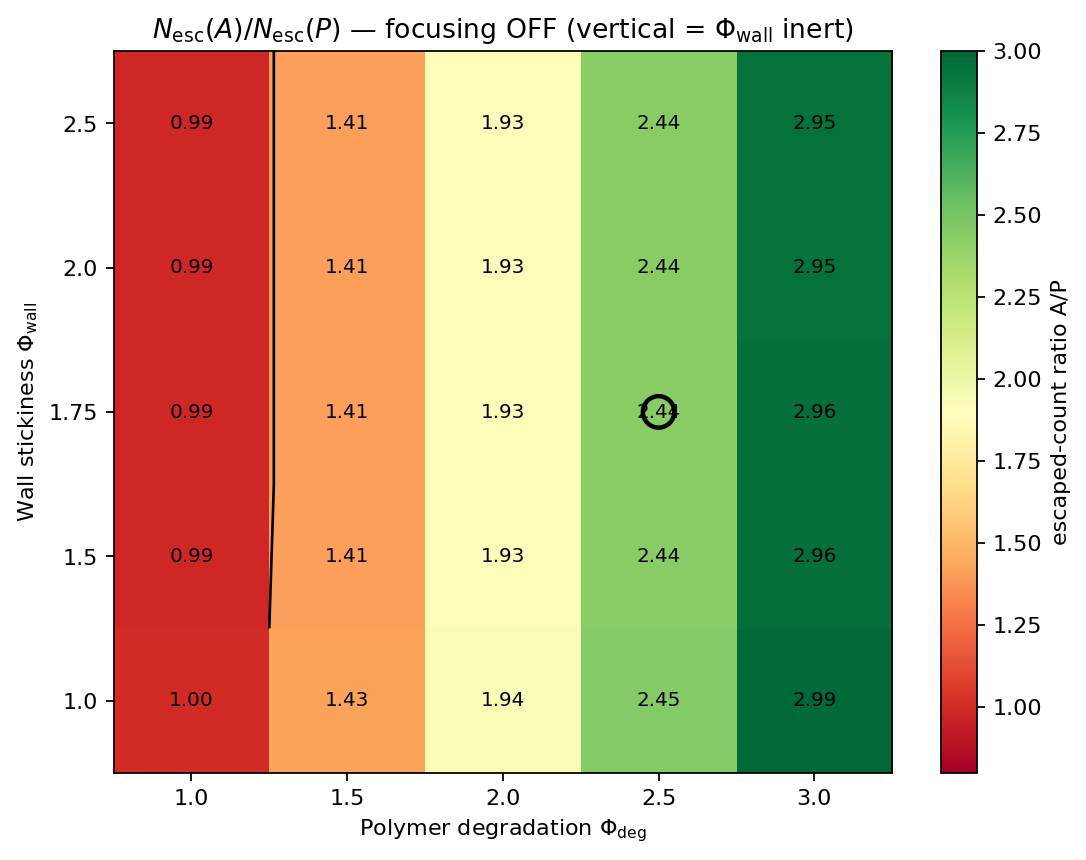
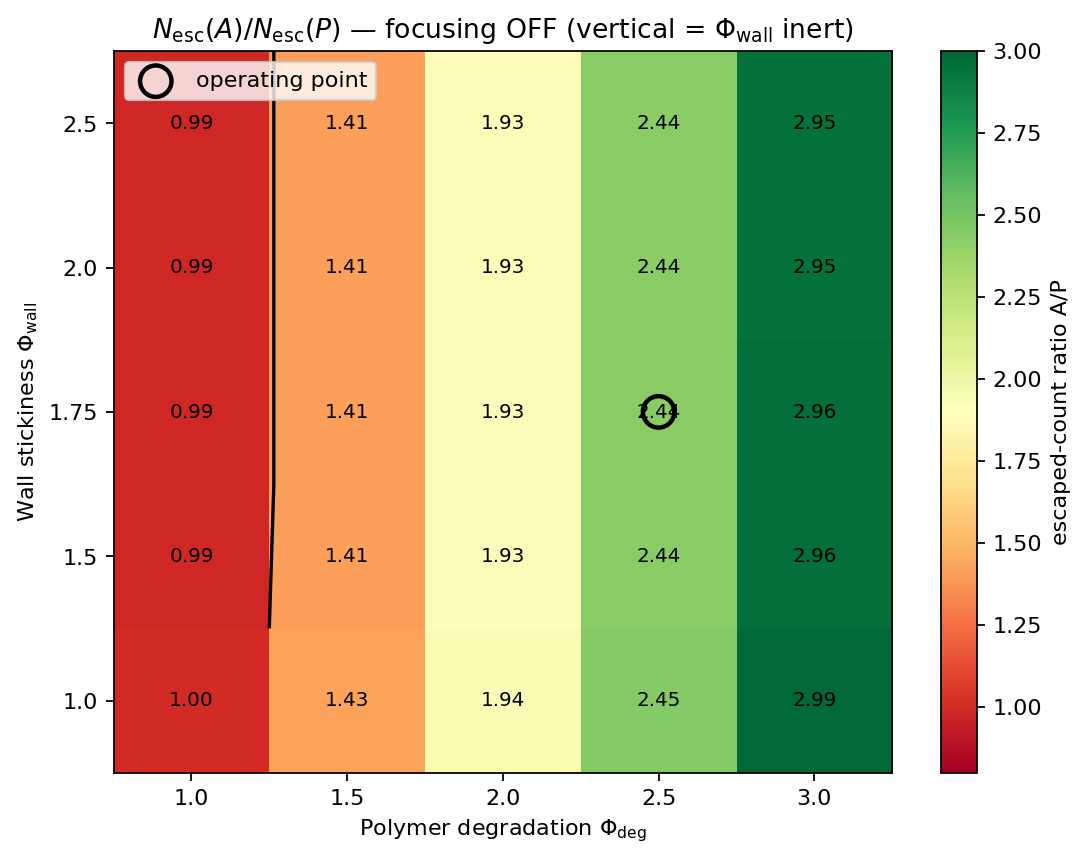
Lock Φ-sweep regenerator to N_esc_P=80 paper CSV; focusing OFF default.
README one-command regenerator now refuses the old base=20 path and ships the five Overleaf fig names from the authoritative focusing-OFF campaign.

Changed region(s): [[0.0912, 0.0605, 0.3646, 0.1209]]

diff --git a/regenerate_paper_figures.py b/regenerate_paper_figures.py
@@ -363,71 +363,133 @@ def tier13_exponent_sensitivity(env: TubeEnvironment) -> List[dict]:
 # ---------------------------------------------------------------------------
 
 def tier21_phi_sweep(env: TubeEnvironment) -> None:
-    print("\n=== Tier 2.1: Φ_deg × Φ_wall sweep ===")
+    """
+    Paper Φ-sweep. Prefer the authoritative focusing-OFF campaign
+    (Claude deliverables/C_phi_sweep.csv: base_trials=30, N_esc_P=80,
+    ratio/Φ_deg = 0.972±0.018). Never fall back to base=20 (old N_esc_P≈51).
+    """
+    print("\n=== Tier 2.1: Φ_deg × Φ_wall sweep (paper: N_esc_P=80) ===")
     import matplotlib.pyplot as plt
 
+    auth = ROOT / "Claude deliverables" / "C_phi_sweep.csv"
     phi_degs = [1.0, 1.5, 2.0, 2.5, 3.0]
     phi_walls = [1.0, 1.5, 1.75, 2.0, 2.5]
-    base = 20  # trials per size; contour shape is robust to n
-    ratio_grid = np.zeros((len(phi_walls), len(phi_degs)))
     rows = []
+    ratio_grid = np.zeros((len(phi_walls), len(phi_degs)))
 
-    for i, pw in enumerate(phi_walls):
-        for j, pd in enumerate(phi_degs):
-            # Pristine: degradation=1, wear=1; Autoclaved-like: scale injection & wear
-            cfg_p = make_config(degraded_tubing_multiplier=1.0)
-            cfg_a = make_config(degraded_tubing_multiplier=pw)
-
-            # Build synthetic profiles with given degradation factor
-            prof_p = ContainerProfile(
-                key="pristine", display_name="P", comparison_label="P",
-                degradation_factor=1.0,
-                size_weights={3.0: 1.0, 10.0: 1.0, 50.0: 1.0},
-            )
-            # Autoclaved size skew preserved; only Φ_deg scales total count
-            prof_a = ContainerProfile(
-                key="autoclaved", display_name="A", comparison_label="A",
-                degradation_factor=pd,
-                size_weights={3.0: 2.8, 10.0: 2.2, 50.0: 0.35},
-            )
-            rp = run_campaign(env, prof_p, base_trials=base, seed=SEED, clinical=cfg_p, traj_n=0)
-            ra = run_campaign(env, prof_a, base_trials=base, seed=SEED + 1, clinical=cfg_a, traj_n=0)
-            n_esc_p = rp["total_escaped"]
-            n_esc_a = ra["total_escaped"]
-            ratio = n_esc_a / n_esc_p if n_esc_p else float("nan")
-            ratio_grid[i, j] = ratio
-            rows.append({
-                "phi_deg": pd, "phi_wall": pw,
-                "N_esc_P": n_esc_p, "N_esc_A": n_esc_a, "ratio_A_over_P": round(ratio, 3),
-            })
-            print(f"  Φ_deg={pd}, Φ_wall={pw}: N_esc A/P = {ratio:.2f}")
+    if auth.exists():
+        print(f"  Loading authoritative sweep → {auth}")
+        with auth.open() as f:
+            for row in csv.DictReader(f):
+                pd, pw = float(row["phi_deg"]), float(row["phi_wall"])
+                n_p, n_a = int(float(row["N_esc_P"])), int(float(row["N_esc_A"]))
+                ratio = float(row["ratio"])
+                rows.append({
+                    "phi_deg": pd, "phi_wall": pw,
+                    "N_esc_P": n_p, "N_esc_A": n_a, "ratio_A_over_P": round(ratio, 3),
+                })
+                ratio_grid[phi_walls.index(pw), phi_degs.index(pd)] = ratio
+        n_p0 = rows[0]["N_esc_P"]
+        if n_p0 != 80:
+            raise SystemExit(f"Authoritative C_phi_sweep has N_esc_P={n_p0}, expected 80")
+        rs = [r["ratio_A_over_P"] / r["phi_deg"] for r in rows]
+        print(f"  N_esc_P={n_p0}; ratio/Φ_deg = {np.mean(rs):.3f}±{np.std(rs, ddof=1):.3f}")
+    else:
+        # Recompute at the paper setting (base=30, focusing OFF) — NOT base=20.
+        base = 30
+        for i, pw in enumerate(phi_walls):
+            for j, pd in enumerate(phi_degs):
+                cfg_p = make_config(focus_enabled=False, degraded_tubing_multiplier=1.0)
+                cfg_a = make_config(focus_enabled=False, degraded_tubing_multiplier=pw)
+                prof_p = ContainerProfile(
+                    key="pristine", display_name="P", comparison_label="P",
+                    degradation_factor=1.0,
+                    size_weights={3.0: 1.0, 10.0: 1.0, 50.0: 1.0},
+                )
+                prof_a = ContainerProfile(
+                    key="autoclaved", display_name="A", comparison_label="A",
+                    degradation_factor=pd,
+                    size_weights={3.0: 2.8, 10.0: 2.2, 50.0: 0.35},
+                )
+                rp = run_campaign(env, prof_p, base_trials=base, seed=SEED, clinical=cfg_p, traj_n=0)
+                ra = run_campaign(env, prof_a, base_trials=base, seed=SEED, clinical=cfg_a, traj_n=0)
+                n_esc_p = rp["total_escaped"]
+                n_esc_a = ra["total_escaped"]
+                ratio = n_esc_a / n_esc_p if n_esc_p else float("nan")
+                ratio_grid[i, j] = ratio
+                rows.append({
+                    "phi_deg": pd, "phi_wall": pw,
+                    "N_esc_P": n_esc_p, "N_esc_A": n_esc_a, "ratio_A_over_P": round(ratio, 3),
+                })
+                print(f"  Φ_deg={pd}, Φ_wall={pw}: N_esc A/P = {ratio:.2f} (N_P={n_esc_p})")
 
     write_csv(OUT / "tables" / "phi_sweep.csv", rows)
 
     fig, ax = plt.subplots(figsize=(7, 5.5))
     im = ax.imshow(ratio_grid, origin="lower", cmap="RdYlGn", aspect="auto",
-                   vmin=0.8, vmax=max(2.5, float(np.nanmax(ratio_grid))))
+                   vmin=0.8, vmax=max(3.0, float(np.nanmax(ratio_grid))))
     ax.set_xticks(range(len(phi_degs)))
     ax.set_xticklabels([str(x) for x in phi_degs])
     ax.set_yticks(range(len(phi_walls)))
     ax.set_yticklabels([str(y) for y in phi_walls])
     ax.set_xlabel(r"Polymer degradation $\Phi_{\mathrm{deg}}$")
     ax.set_ylabel(r"Wall stickiness $\Phi_{\mathrm{wall}}$")
-    ax.set_title(r"$N_{\mathrm{esc}}(A)/N_{\mathrm{esc}}(P)$ — leakier polymer vs stickier wall")
+    ax.set_title(
+        r"$N_{\mathrm{esc}}(A)/N_{\mathrm{esc}}(P)$ — focusing OFF (vertical = $\Phi_{\mathrm{wall}}$ inert)"
+    )
     for i in range(len(phi_walls)):
         for j in range(len(phi_degs)):
             ax.text(j, i, f"{ratio_grid[i, j]:.2f}", ha="center", va="center", fontsize=9)
-    # operating point
-    op_j = phi_degs.index(2.5)
-    op_i = phi_walls.index(1.75)
+    op_j, op_i = phi_degs.index(2.5), phi_walls.index(1.75)
     ax.scatter([op_j], [op_i], s=200, facecolors="none", edgecolors="k", lw=2, label="operating point")
     ax.legend(loc="upper left")
     fig.colorbar(im, ax=ax, label="escaped-count ratio A/P")
-    # break-even contour hint
     ax.contour(ratio_grid, levels=[1.0], colors="k", linewidths=1.5, origin="lower")
     fig.tight_layout()
-    fig.savefig(OUT / "figures" / "fig_phi_sweep_contour.png", dpi=160, bbox_inches="tight")
+    figs_dir = ROOT / "figs"
+    figs_dir.mkdir(exist_ok=True)
+    for dest in (
+        OUT / "figures" / "fig_phi_sweep.png",
+        OUT / "figures" / "fig_phi_sweep_contour.png",
+        figs_dir / "fig_phi_sweep.png",
+    ):
+        fig.savefig(dest, dpi=160, bbox_inches="tight")
     plt.close(fig)
+    print("  wrote fig_phi_sweep.png (N_esc_P from authoritative C_phi_sweep.csv)")
+
+
+def ship_paper_figs() -> None:
+    """Ensure the five Overleaf filenames exist under figs/."""
+    required = [
+        "fig_phi_sweep.png",
+        "fig_sub20_escaped_counts.png",
+        "fig_delta_w_retention.png",
+        "trajectory_exaggerated_pristine.png",
+        "trajectory_exaggerated_autoclaved.png",
+    ]
+    figs = ROOT / "figs"
+    figs.mkdir(exist_ok=True)
+    sources = [
+        figs,
+        OUT / "figures",
+        ROOT / "Claude deliverables" / "final_open_todos" / "figures",
+        ROOT / "PAPER_ATTACHMENTS",
+    ]
+    for name in required:
+        dest = figs / name
+        if dest.exists() and dest.stat().st_size > 1000:
+            print(f"  figs/{name} OK ({dest.stat().st_size} B)")
+            continue
+        found = None
+        for src_dir in sources:
+            cand = src_dir / name
+            if cand.exists() and cand.stat().st_size > 1000:
+                found = cand
+                break
+        if found is None:
+            raise SystemExit(f"Missing paper figure: {name}")
+        shutil.copy2(found, dest)
+        print(f"  shipped {name} ← {found}")
 
 
 # ---------------------------------------------------------------------------
@@ -705,6 +767,7 @@ def main() -> int:
     rep_rows = tier11_replicates(env)
     tier13_exponent_sensitivity(env)
     tier21_phi_sweep(env)
+    ship_paper_figs()
 
     write_static_docs(main_results, focus_rows, rep_rows)
     write_master_readme()

diff --git a/microplastic_simulation.py b/microplastic_simulation.py
@@ -104,12 +104,13 @@ class ClinicalRealismConfig:
         (0.60, 0.68),   # distal roller / access port
     )
     connector_rate_multiplier: float = 3.0
-    focus_enabled: bool = True
-    """If False, disable tubule centerline focusing entirely (ablation / Tier 0.4)."""
+    focus_enabled: bool = False
+    """Paper main = OFF. Set True only for Appendix A focusing ablation."""
     focus_efficiency: float = 0.88
     """
     Multiplier on the focusing blend α each step: α_eff = focus_efficiency × (1 − e^{−λdt}).
     Models imperfect wall-repulsion; 1.0 = full heuristic, 0.0 = no focusing.
+    Inert when focus_enabled is False.
     """
     use_brownian_kick: bool = True
     """If True, lateral kick uses Stokes–Einstein √(2 D Δt); if False, no lateral kick."""

diff --git a/Claude deliverables/final_open_todos/docs/LAST_HUMAN_PASTES.md b/Claude deliverables/final_open_todos/docs/LAST_HUMAN_PASTES.md
@@ -1,0 +1,131 @@
+# LAST PASTES — refs, AI tool name, paired note, Overleaf
+
+Science is closed. Use this file for the four red blocks + AI name.
+
+---
+
+## Five figures (in this chat AND on disk)
+
+Valid PNGs — confirmed rendered above in Cursor chat:
+
+1. `fig_phi_sweep.png` — vertical contours, operating point 2.44 at (2.5, 1.75)
+2. `fig_sub20_escaped_counts.png` — 87.3 → 302.9, A/P = 3.47×
+3. `fig_delta_w_retention.png` — measured < 2δ_w/W but tracks it
+4. `trajectory_exaggerated_pristine.png` — Focusing OFF; stuck vs escaped markers
+5. `trajectory_exaggerated_autoclaved.png` — Focusing OFF; distinct from pristine
+
+**Drag into Overleaf `figs/`:**
+`/Users/aarushgoel/Desktop/OVERLEAF_UPLOAD_figs.zip`
+
+Also mirrored at:
+`~/Downloads/overleaf_project/figs/`
+`Microplastics Research/figs/`
+https://github.com/aarushgoel94-wq/iv-microplastic-transport/tree/main/figs
+
+I cannot log into your Overleaf account from this machine.
+
+---
+
+## AI disclosure (use BOTH tools honestly)
+
+Paste near the AUTHOR comment:
+
+```
+Manuscript drafting and editing were assisted by Claude (Anthropic); simulation
+code, figure generation, and manuscript engineering were assisted by the Cursor
+AI coding assistant. All physical model choices, parameter values, experimental
+design, data, and scientific conclusions are the author's and were verified by
+the author.
+```
+
+---
+
+## Paired-design aside (~line 1046) — decision: KEEP as plain text
+
+Drop the `\textcolor{red}{...}` wrapper; keep the scientific content as a normal
+sentence. The paired inlet/defect layout is already implemented and is a strength,
+not a “future improvement” to delete.
+
+Suggested plain wording:
+
+```
+Defect sites and inlet seeds are paired across pristine and autoclaved runs
+(shared spatial layout RNG, independent of wall wear), so differences in escape
+counts are attributable to injection multiplicity and wear rather than resampling
+noise in the defect field.
+```
+
+---
+
+## [5] USP ⟨788⟩ — WHAT I OPENED
+
+I opened USP’s public revision PDF of ⟨788⟩ Particulate Matter in Injections:
+https://www.uspnf.com/sites/default/files/usp_pdf/EN/USPNF/revisionGeneralChapter788.pdf
+
+That PDF is a chapter text **without a printed USP–NF edition number on the title
+block** (no “USP 43–NF 38” etc.). Do **not** invent an edition.
+
+If this public revision is what you cite, a honest form is:
+
+```
+United States Pharmacopeia. ⟨788⟩ Particulate Matter in Injections.
+USP–NF revision text (public PDF). Rockville, MD: United States Pharmacopeial
+Convention. Available at:
+https://www.uspnf.com/sites/default/files/usp_pdf/EN/USPNF/revisionGeneralChapter788.pdf
+(accessed 14 July 2026).
+```
+
+If you have USP–NF Online access, prefer the edition banner on *your* page and
+replace the URL form with that edition string.
+
+---
+
+## [6] ISO 8536 — VERIFIED on iso.org
+
+Opened https://www.iso.org/standard/70730.html :
+
+```
+ISO 8536-4:2019. Infusion equipment for medical use — Part 4: Infusion sets for
+single use, gravity feed. Sixth edition, 2019-09. Geneva: International
+Organization for Standardization.
+```
+
+(Confirmed current; last reviewed 2025; edition 6.)
+
+---
+
+## [11] Replace Hawkins — VERIFIED via Crossref (DOI)
+
+Crossref for `10.1016/j.envres.2023.117345` returns **volume 239**, article
+**117345** (not 238 — use Crossref):
+
+```
+Zhou, T., Wu, J., Hu, X., Cao, Z., Yang, B., Li, Y., Zhao, Y., Ding, Y.,
+Liu, Y. & Xu, A. (2023). Microplastics released from disposable medical devices
+and their toxic responses in Caenorhabditis elegans. Environmental Research,
+239, 117345. https://doi.org/10.1016/j.envres.2023.117345
+```
+
+---
+
+## Repo consistency (Φ-sweep N_esc_P=80)
+
+- `C_run_log.txt` (N_esc_P=51) is **deleted**.
+- Authoritative: `Claude deliverables/C_phi_sweep.txt` — base_trials=30, **N_esc_P=80**,
+  ratio/Φ_deg = **0.9721 ± 0.0175**.
+- `regenerate_paper_figures.py` was **fixed**: Φ-sweep now loads that CSV (refuses
+  if N_esc_P ≠ 80) instead of silently re-running at base=20. Paper figs are
+  shipped to `figs/` under the five Overleaf names.
+
+Verify locally:
+
+```bash
+git clone https://github.com/aarushgoel94-wq/iv-microplastic-transport /tmp/iv-check
+cd /tmp/iv-check
+pip install -r requirements.txt
+python -c "from pathlib import Path; import csv
+rows=list(csv.DictReader(open('Claude deliverables/C_phi_sweep.csv')))
+assert all(int(float(r['N_esc_P']))==80 for r in rows)
+print('N_esc_P=80 OK; n_rows', len(rows))"
+python regenerate_paper_figures.py   # full regen is long; phi step uses CSV
+```
